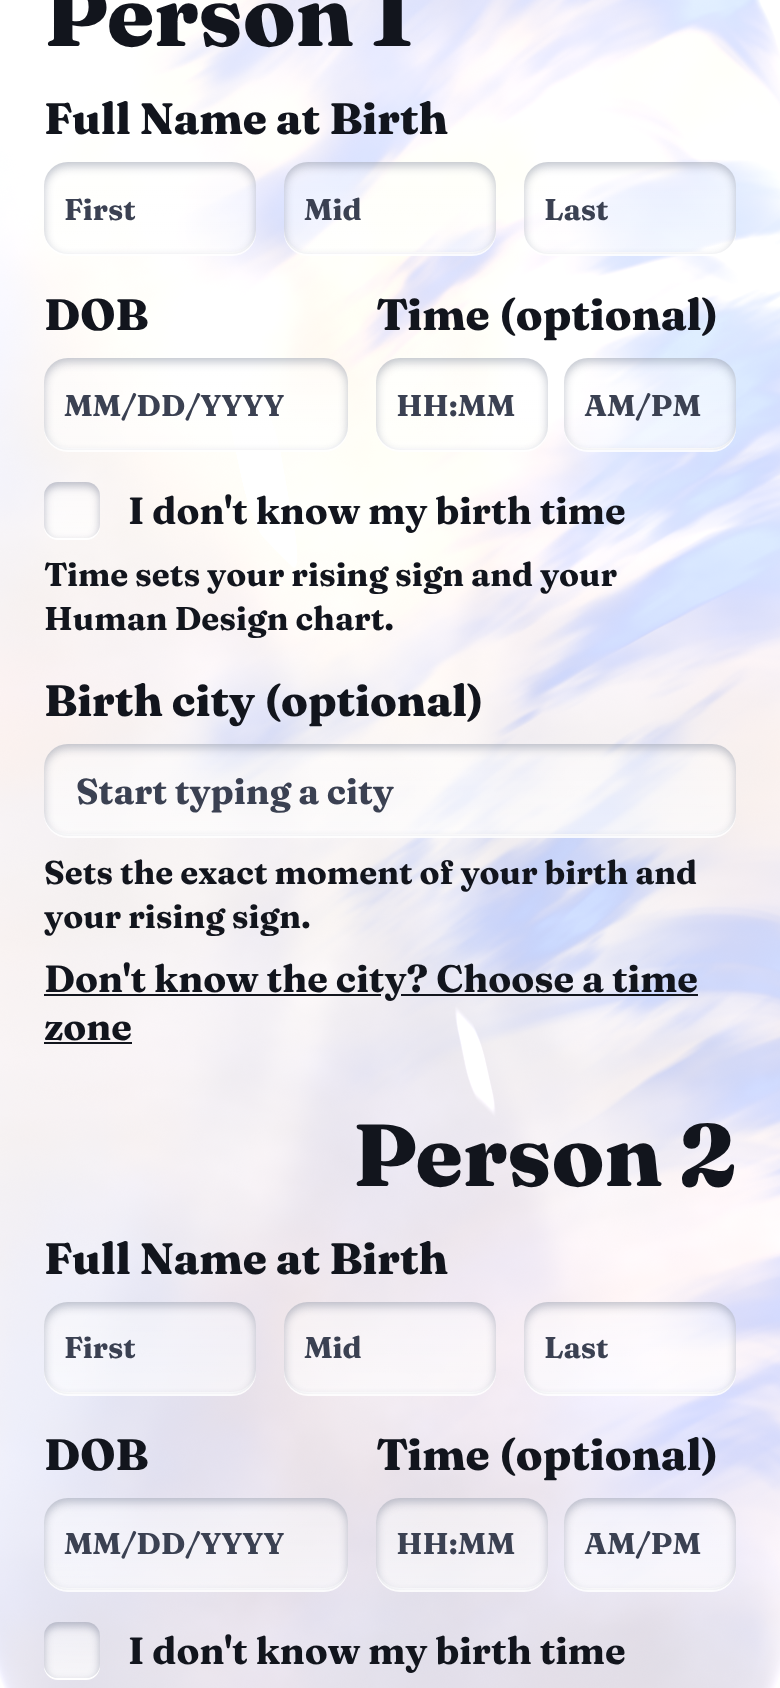
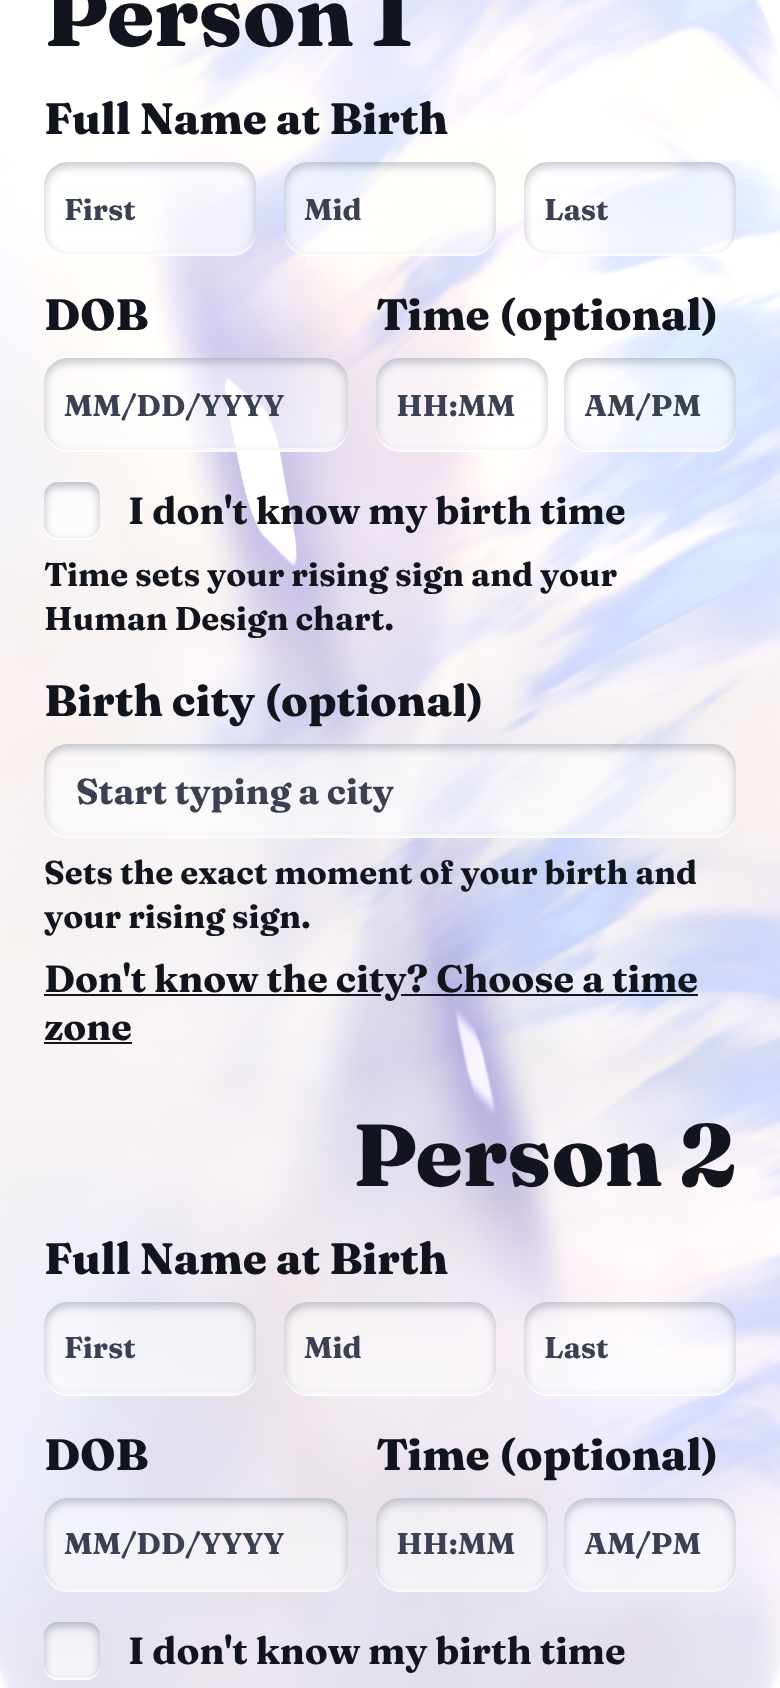
Moonstone: shine sits against deeper lilac-blue pockets (no grey)
Claude-Session: https://claude.ai/code/session_01DRAcaZvypgnSaCTMdJvvGx

Changed region(s): [[0.2154, 0.154, 0.5846, 0.4621], [0.5231, 0.4929, 0.7077, 0.7393]]

diff --git a/stone/stone-full.html b/stone/stone-full.html
@@ -75,6 +75,9 @@ void main(){
     vec3 ev=env(r);float el=dot(ev,vec3(.33));
     c*=mix(vec3(.91,.92,.99),vec3(1.),smoothstep(.25,.85,el));
     
+    float h1=rbox(r.xy,vec2(-.26,.30),vec2(.26,.23),.20,.17);
+    float h2=rbox(r.xy,vec2(.20,-.16),vec2(.17,.15),.15,.15);
+    c=mix(c,c*vec3(.70,.68,.90),max(h1,h2)*.80);
     c+=ev*(F*1.0+.05)*vec3(.98,.99,1.);
     c+=vec3(1.,1.,1.02)*boxes(r)*(.55+.45*F*6.)*.95;
     float edgeLit=smoothstep(.965,.995,d)*smoothstep(-.1,.7,(-p.x+p.y)*1.4);c+=vec3(1.)*edgeLit*.30;
